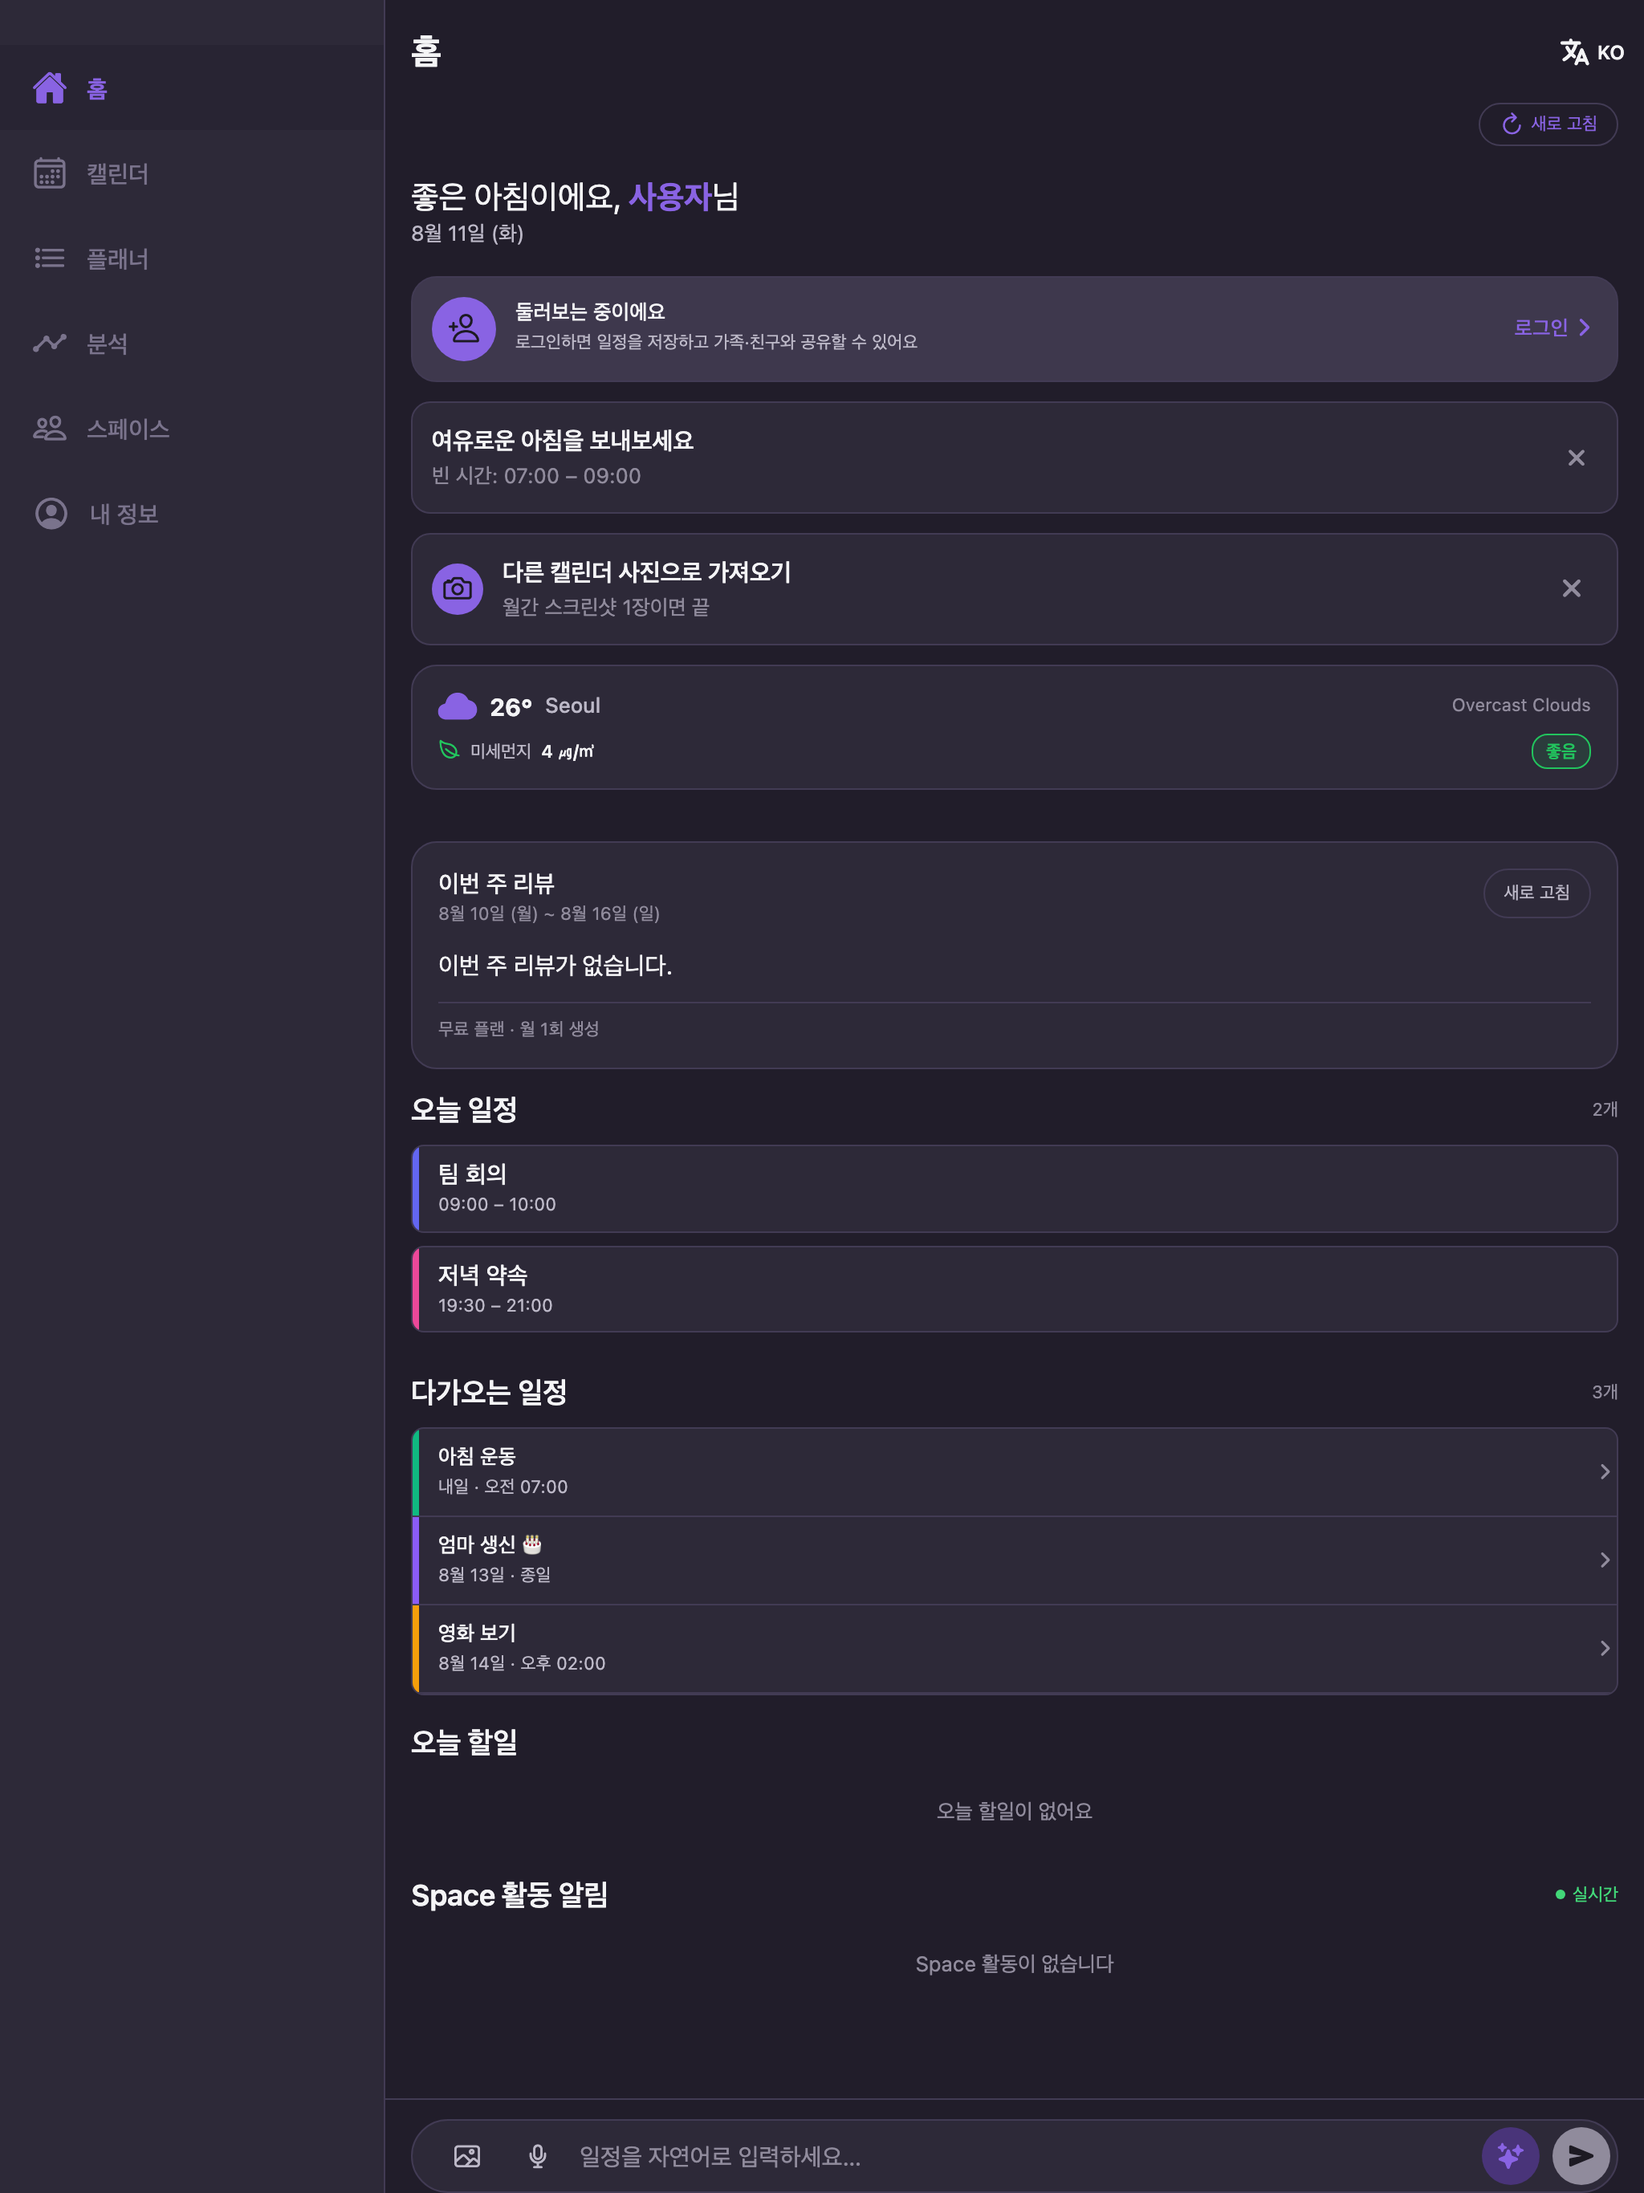
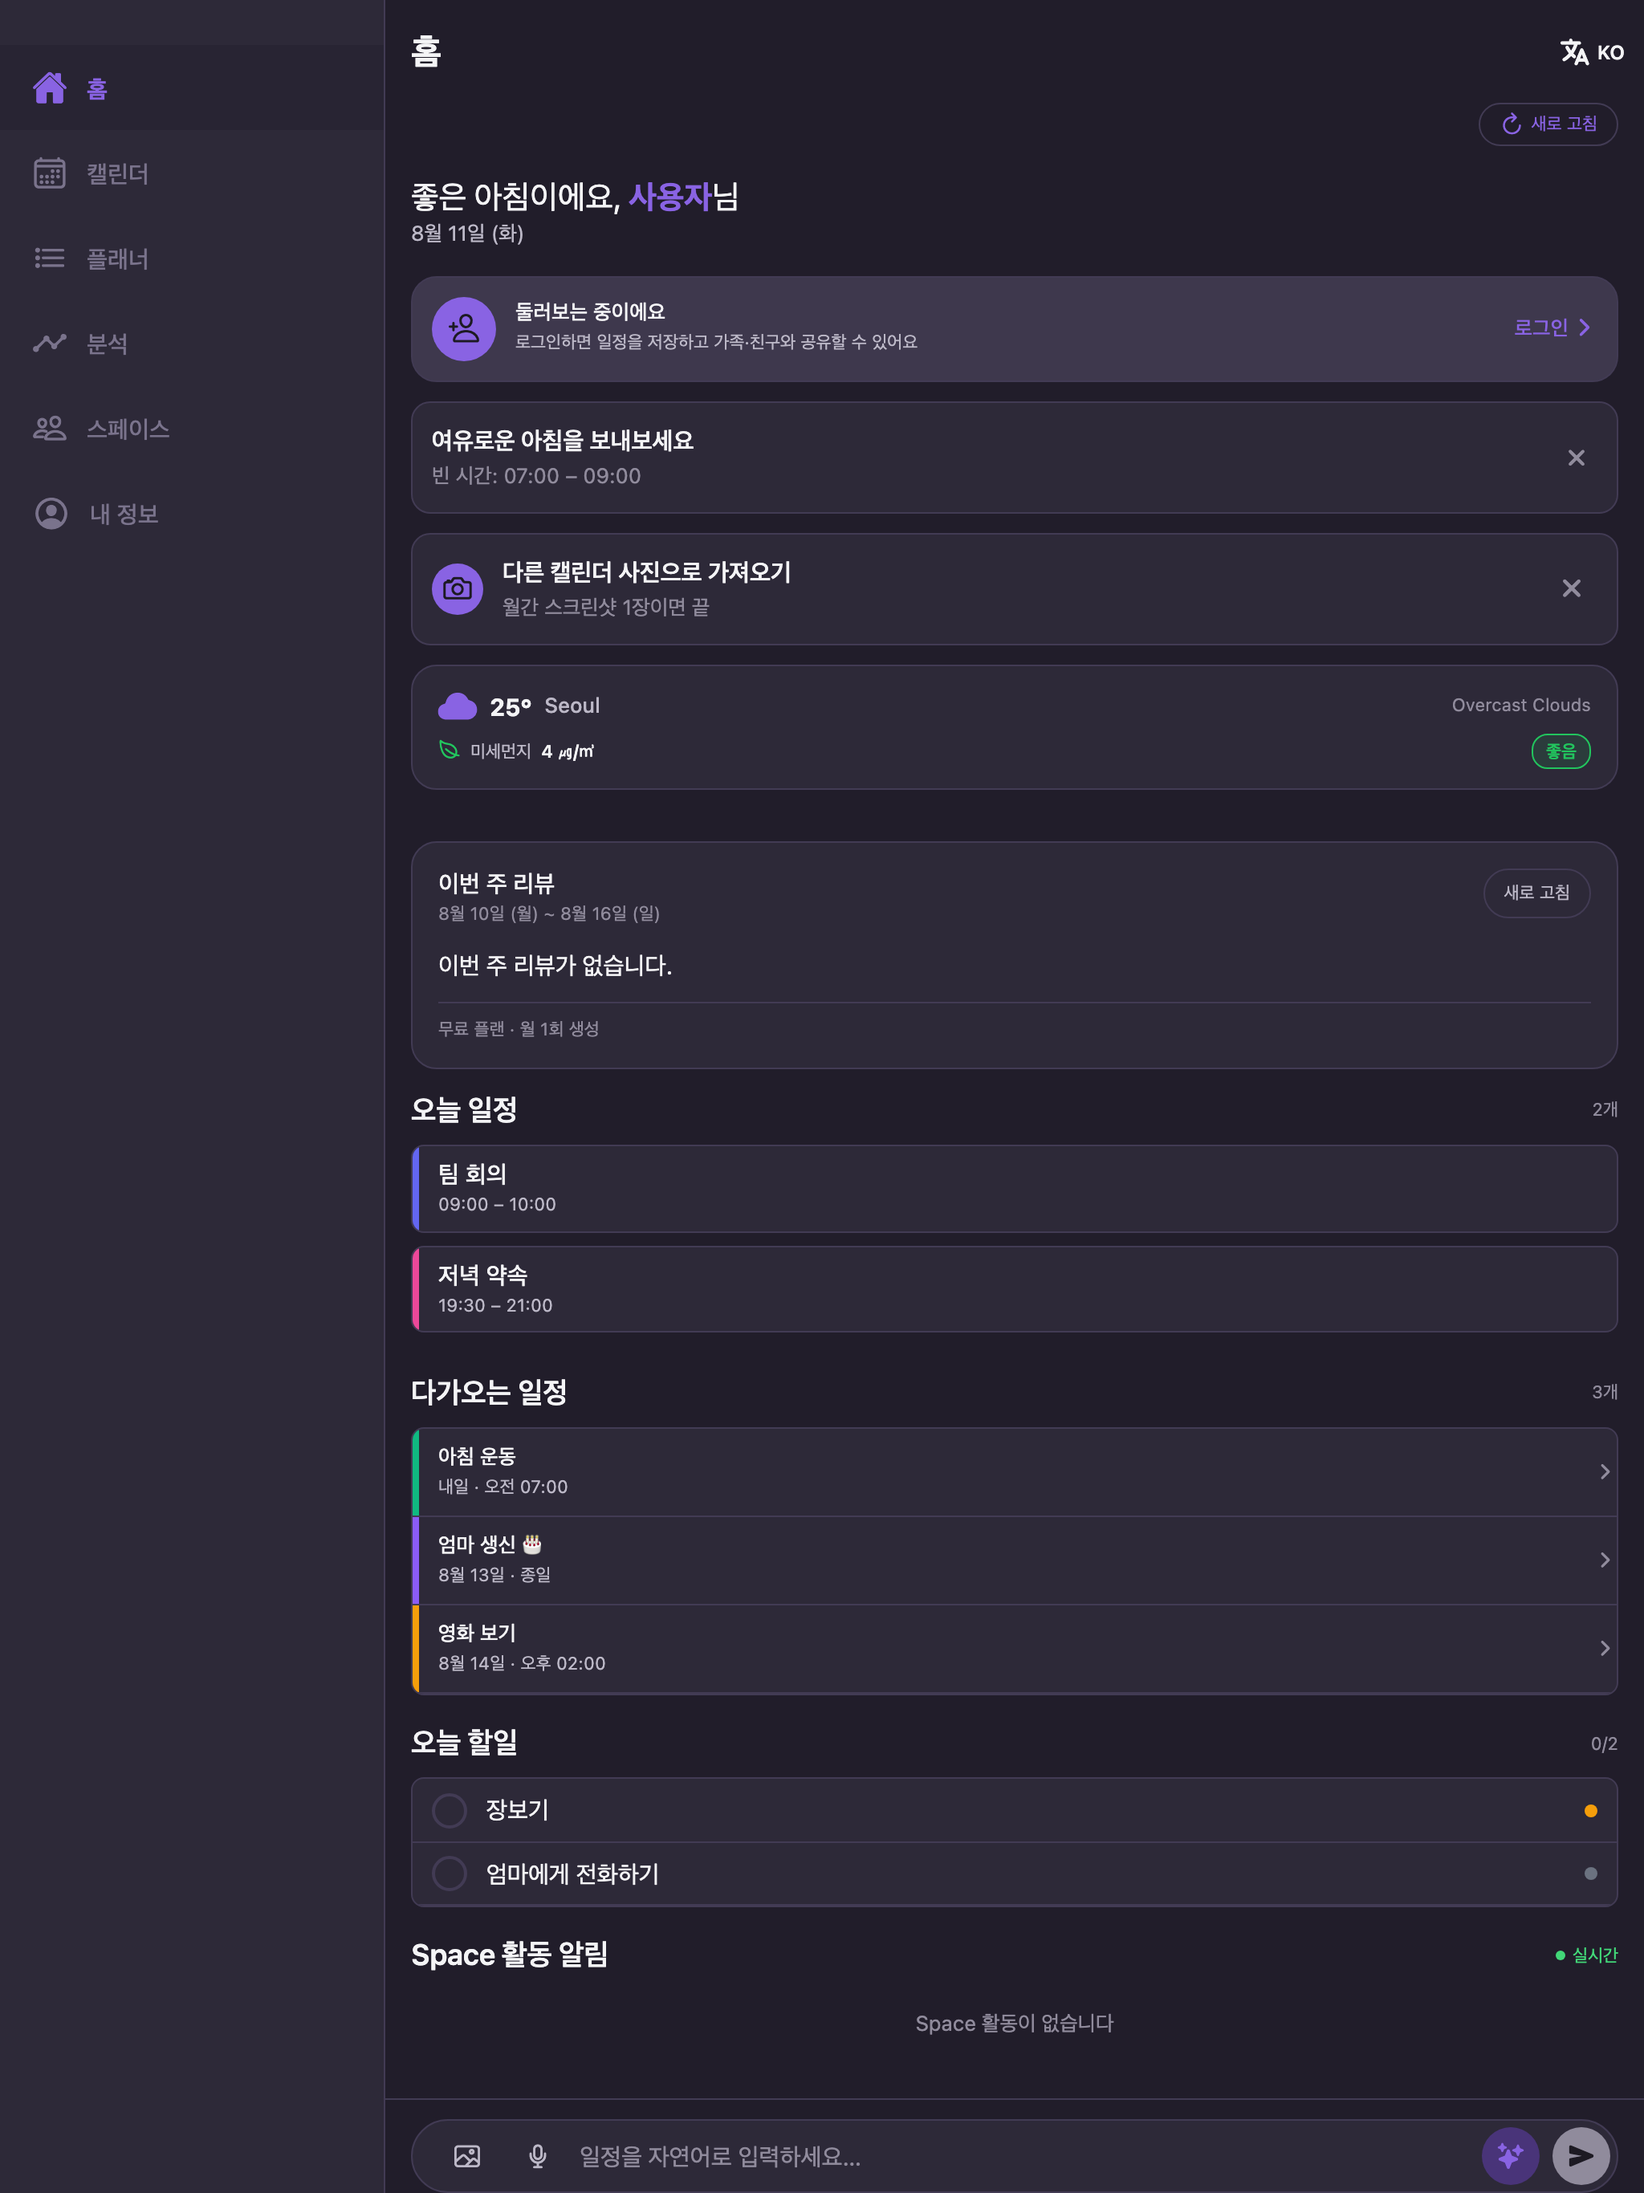
feat(brand): 홈 데모 할 일 + 투표 스크린샷 프레임
앞선 커밋에서 남긴 두 구멍을 메운다.

## 1. 홈 컷의 '오늘 할일' 이 비어 있던 문제

게스트 데모에는 **일정만 있고 할 일이 없었다**(guestDemoData 는 이벤트만 만들었다).
할 일 중심으로 이름까지 바꾸는 앱의 첫 기기 컷에 "오늘 할일이 없어요" 가 박히는 상태였다.

- `buildGuestDemoTodos()` 추가 — 오늘 마감 2건 + 연체 1건.
  연체를 하나 넣은 건 연체 스타일이 화면에 보이게 하려는 것.
- `todoStore.fetchTodos` 에 게스트 분기 추가. eventStore.fetchEvents 가 쓰는 것과
  같은 패턴이다(비로그인은 RLS 상 어차피 [] 를 받는다).
- i18n 4개 로케일에 데모 할 일 3종 추가.

검증: 재캡처 결과 홈에 **"오늘 할일 0/2 · 장보기 · 엄마에게 전화하기"** 렌더 확인.
(연체건은 '오늘 할일' 필터에서 빠지는 게 정상 — 플래너에 보인다.)

## 2. 투표 프레임 없던 문제

Play 짧은 설명이 "모임 날짜까지 정해요" 라고 약속하는데 정작 그 화면이 없었다.

- capture.mjs 에 `scrollToText` 옵션 + `poll` 화면 추가.
  투표 섹션은 스페이스 상세 하단이라 그냥 찍으면 화면 밖이다.
  스크롤은 RN-web 의 **내부 스크롤 컨테이너**를 찾아 조정한다(document 가 아니다).
  ⚠ 단, 투표는 페이지 끝 근처라 컨테이너 스크롤이 먼저 바닥나 최상단까지는 못 올린다
  — 캡처에 "Space 탈퇴" 까지 보이는 것으로 확인했다. 화면 중앙에 오는 게 한계다.
- compose.mjs 에 프레임 추가 → 폰 프로파일 6장 → **7장**.

스크린샷용 투표는 QA 스페이스에 만들었다가 **촬영 후 삭제**했다
(투표 0건·옵션 0건·표 0건으로 되읽어 확인). 메모리의 "QA 데이터는 그대로 둔다" 방침 유지.

## 잔여 파일 함정

compose 는 out/ 을 비우지 않아, 프레임 인덱스가 밀리자 이전 실행의 `06_planner.png` 가
새 `06_poll.png`·`07_planner.png` 와 함께 남았다. 그대로 복사했으면 중복 컷이 스토어에
갔다. out/ 을 지우고 재합성했다.

검증: 규격 전수 확인(iphone65 전부 1284x2778, ipad129 전부 2048x2732), tsc 20 유지.

Claude-Session: https://claude.ai/code/session_01BVhhyizP1GdF21Q1oYwik6

diff --git a/src/lib/guestDemoData.ts b/src/lib/guestDemoData.ts
@@ -10,6 +10,7 @@
  */
 
 import type { EventSummary } from '@/types';
+import type { Todo } from '@/types/todo';
 import { toDateKey } from '@/lib/calendarRange';
 import i18n from '@/lib/i18n';
 
@@ -96,4 +97,72 @@ export function buildGuestDemoEventsByDate(): Record<string, EventSummary[]> {
     (byDate[toDateKey(e.startAt)] ??= []).push(e);
   }
   return byDate;
+}
+
+/**
+ * Demo todos for a browsing guest, mirroring buildGuestDemoEventsByDate.
+ *
+ * Why todos need demo data too: Home renders an "오늘 할일" section, and a guest
+ * with events but no todos sees it empty. That reads as a missing feature rather
+ * than an empty state — and it undercuts the product's todo half, which is now
+ * the lead in the brand name.
+ *
+ * Dates are relative to today so the list never goes stale:
+ *   - two due today (one of them the one an overdue-free list needs)
+ *   - one overdue by a day, so the overdue styling is visible
+ *
+ * Nothing here is written to the server; the store swaps this in when the user
+ * is unauthenticated, exactly as eventStore does.
+ */
+export function buildGuestDemoTodos(): Todo[] {
+  const tr = (key: string): string => i18n.t(`auth.guest.${key}`);
+
+  /** Midnight-anchored date `dayOffset` days from today. */
+  const day = (dayOffset: number): Date => {
+    const d = new Date();
+    d.setDate(d.getDate() + dayOffset);
+    d.setHours(0, 0, 0, 0);
+    return d;
+  };
+
+  const base = {
+    userId:      '',
+    spaceId:     null,
+    content:     null,
+    contentType: 'todo' as const,
+    dueAt:       null,
+    isCompleted: false,
+    completedAt: null,
+    categoryId:  null,
+    eventId:     null,
+    createdAt:   new Date(),
+    updatedAt:   new Date(),
+  };
+
+  return [
+    {
+      ...base,
+      id: 'guest-demo-todo-report',
+      title: tr('demo_todo_report'),
+      dueDate: day(-1),          // overdue — shows the red/overdue treatment
+      priority: 'high' as const,
+      sortOrder: 0,
+    },
+    {
+      ...base,
+      id: 'guest-demo-todo-groceries',
+      title: tr('demo_todo_groceries'),
+      dueDate: day(0),
+      priority: 'medium' as const,
+      sortOrder: 1,
+    },
+    {
+      ...base,
+      id: 'guest-demo-todo-call',
+      title: tr('demo_todo_call'),
+      dueDate: day(0),
+      priority: 'low' as const,
+      sortOrder: 2,
+    },
+  ];
 }

diff --git a/src/stores/todoStore.ts b/src/stores/todoStore.ts
@@ -31,6 +31,8 @@ import {
   deleteNote,
 } from '@/services/todoService';
 import type { CreateNoteInput, UpdateNoteInput } from '@/types';
+import { useAuthStore } from '@/stores/authStore';
+import { buildGuestDemoTodos } from '@/lib/guestDemoData';
 
 // ─── Store interface ──────────────────────────────────────────────────────────
 
@@ -132,6 +134,14 @@ export const useTodoStore = create<TodoState>((set, get) => ({
   fetchTodos: async (filter?: TodoFilter) => {
     set({ isLoading: true, error: null });
     try {
+      // A browsing guest has no rows under RLS, so the server would return []
+      // and Home's "오늘 할일" would render empty. Swap in demo todos instead —
+      // same short-circuit eventStore.fetchEvents uses for demo events.
+      if (!useAuthStore.getState().isAuthenticated) {
+        set({ todos: buildGuestDemoTodos(), isLoading: false });
+        return;
+      }
+
       const merged: TodoFilter = { ...filter, contentType: 'todo' };
 
       // getTodos returns TodoSummary[], but we need Todo[] for the store.

diff --git a/src/locales/ko.ts b/src/locales/ko.ts
@@ -122,6 +122,9 @@ const ko = {
       demo_workout: '아침 운동',
       demo_birthday: '엄마 생신 🎂',
       demo_movie: '영화 보기',
+      demo_todo_groceries: '장보기',
+      demo_todo_report: '보고서 마무리',
+      demo_todo_call: '엄마에게 전화하기',
       sheet_title: '로그인하고 내 일정 만들기',
       sheet_desc: '로그인하면 일정을 저장하고 어디서나 동기화할 수 있어요',
       sheet_cta: '로그인',

diff --git a/src/locales/ja.ts b/src/locales/ja.ts
@@ -117,6 +117,9 @@ const ja = {
       demo_workout: '朝の運動',
       demo_birthday: '母の誕生日 🎂',
       demo_movie: '映画鑑賞',
+      demo_todo_groceries: '買い物',
+      demo_todo_report: 'レポート仕上げ',
+      demo_todo_call: '母に電話する',
       sheet_title: 'ログインして予定を作ろう',
       sheet_desc: 'ログインすると予定を保存し、どこでも同期できます',
       sheet_cta: 'ログイン',

diff --git a/src/locales/en.ts b/src/locales/en.ts
@@ -117,6 +117,9 @@ const en = {
       demo_workout: 'Morning workout',
       demo_birthday: "Mom's birthday 🎂",
       demo_movie: 'Movie night',
+      demo_todo_groceries: 'Groceries',
+      demo_todo_report: 'Finish the report',
+      demo_todo_call: 'Call Mom',
       sheet_title: 'Sign in to make it yours',
       sheet_desc: 'Sign in to save your schedule and sync it everywhere',
       sheet_cta: 'Sign in',

diff --git a/src/locales/zh.ts b/src/locales/zh.ts
@@ -117,6 +117,9 @@ const zh = {
       demo_workout: '晨练',
       demo_birthday: '妈妈生日 🎂',
       demo_movie: '看电影',
+      demo_todo_groceries: '买菜',
+      demo_todo_report: '完成报告',
+      demo_todo_call: '给妈妈打电话',
       sheet_title: '登录后创建你的日程',
       sheet_desc: '登录后即可保存日程并随处同步',
       sheet_cta: '登录',
